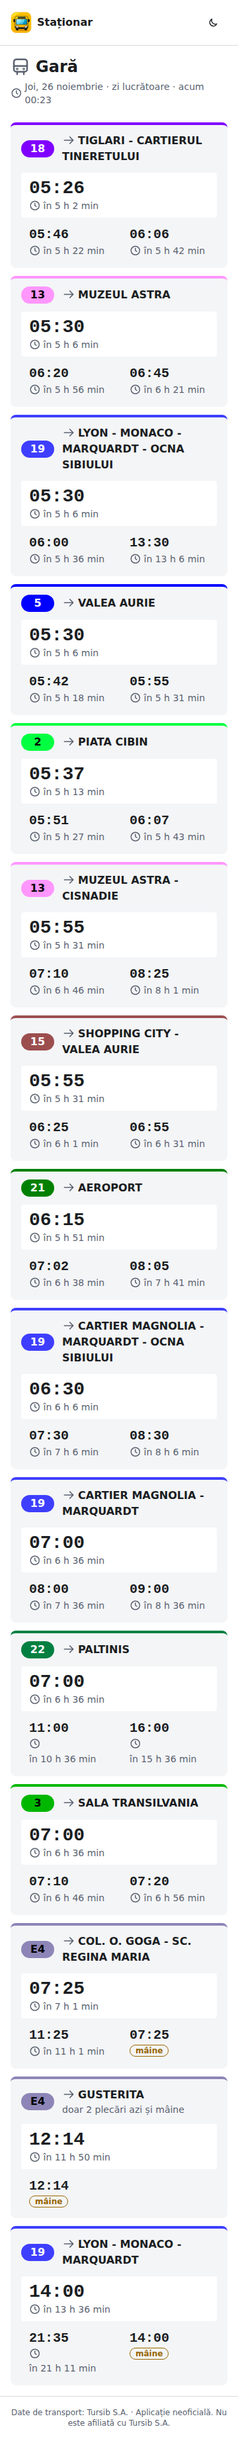
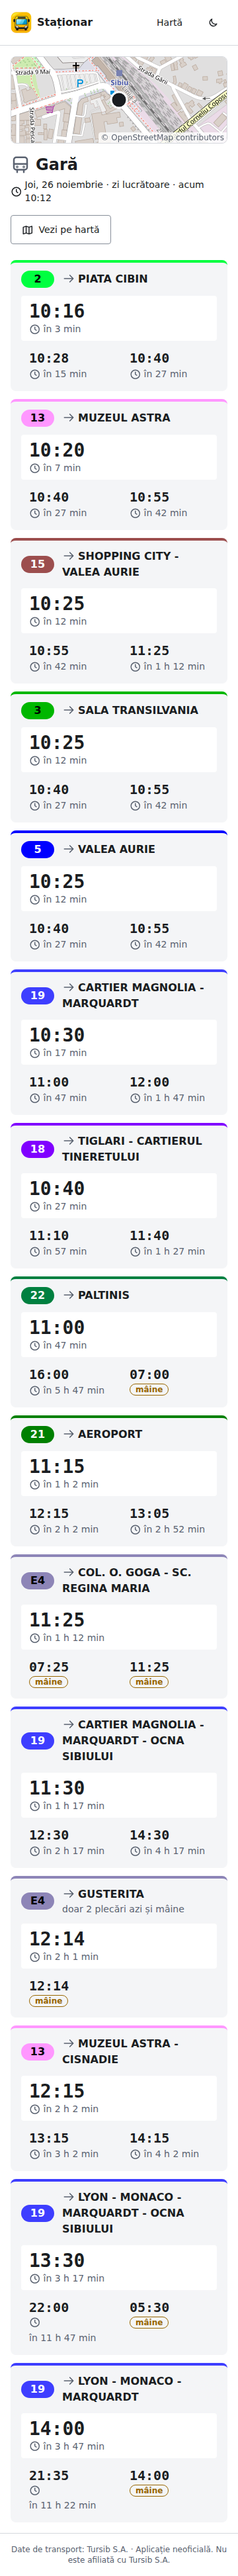
docs(harta): screenshots, registry, architecture, DATA.md grouping on the real feed, AI_LOG (point 9)
Hello screenshots removed with the hello page; PATTERN-003 (candidate) for Leaflet markers styled
with tokens through className.

Changed region(s): [[0.0306, 0.0, 0.9778, 0.9981], [0.7944, 0.0936, 0.8556, 0.1248]]

diff --git a/docs/agents/ARCHITECTURE.md b/docs/agents/ARCHITECTURE.md
@@ -6,7 +6,7 @@
 <!-- graffino-agentic:end -->
 
 > Rescris din cod după primul build (scheletul proiectului, 2026-11-19); importul GTFS și pagina de
-> stație adăugate 2026-11-25. Harta și autentificarea nu există încă; secțiunile marcate „plan”
+> stație adăugate 2026-11-25; harta 2026-11-26. Autentificarea nu există încă; secțiunile marcate „plan”
 > descriu deciziile aprobate.
 
 ## Overview
@@ -26,10 +26,11 @@ pe Render, din `Dockerfile`, și baza pe Neon (D-037).
 ## Parts
 | Part | Path | Responsibility | Talks to |
 |---|---|---|---|
-| app | `src/main/java/ro/autobuze/` | pornirea (`AutobuzeApplication`); `ClockConfig`: ceasul pe Europe/Bucharest (D-047); `web/HelloController`: pagina „hello” de la „/” (temporară, D-022) | db |
+| app | `src/main/java/ro/autobuze/` | pornirea (`AutobuzeApplication`); `ClockConfig`: ceasul pe Europe/Bucharest (D-047) | db |
 | import | `src/main/java/ro/autobuze/gtfs/` | `GtfsImportService`: descărcare + SHA-256, versiune nouă într-o tranzacție, câte un COPY pe fișier, activare, păstrarea a 2 versiuni (D-003, D-019, D-038); `GtfsTable`: fișierele GTFS → coloanele din DB, citite cu Commons CSV (D-046); `GtfsValues`: orele în secunde (D-043) | db, feed-ul Tursib |
-| orar | `src/main/java/ro/autobuze/schedule/` | `ServiceCalendar`: versiunea activă, serviciile active la o dată (calendar ∪ adăugate − scoase), tipul de zi (D-014, D-015); `Departures`: plecările dintr-o listă de stații într-un interval, din toate zilele de serviciu care îl ating (ore ≥ 24:00, D-043, D-047); `Stations`: stația unui `stop_id` (D-031); `NextDepartures`: următoarele plecări (D-018, D-048, D-051) în `StationBoard`; `LineColors`: culorile etichetei cu regula de contrast | db |
+| orar | `src/main/java/ro/autobuze/schedule/` | `ServiceCalendar`: versiunea activă, serviciile active la o dată (calendar ∪ adăugate − scoase), tipul de zi (D-014, D-015); `Departures`: plecările dintr-o listă de stații într-un interval, din toate zilele de serviciu care îl ating (ore ≥ 24:00, D-043, D-047); `Stations`: stația unui `stop_id` (D-031); `NextDepartures`: următoarele plecări (D-018, D-048, D-051) în `StationBoard`; `LineColors`: culorile etichetei cu regula de contrast; `StationDirectory`: toate stațiile (D-031) și cele mai apropiate 3 la ≤ 1 km (D-034), cu PostGIS | db |
 | pagina de stație | `src/main/java/ro/autobuze/web/StationController.java`, `templates/statie.html` | `GET /statie/{stopId}` randat pe server și `GET /api/statii/{stopId}/plecari` în JSON (C-002, D-050); 404 la o stație necunoscută | orar |
+| harta | `src/main/java/ro/autobuze/web/MapController.java`, `templates/harta.html`, `static/js/harta.js` | `GET /` și `/harta` (D-022, D-030); `GET /api/statii` și `/api/statii/aproape` (C-003); pagina desenează stațiile în browser, cu Leaflet din `static/vendor/leaflet` (D-053), și caută după nume acolo (D-054); harta mică de pe pagina de stație: `static/js/harta-mini.js` | orar, tile-uri OSM |
 | endpoint import | `src/main/java/ro/autobuze/web/ImportController.java` | `POST`/`GET /admin/import` cu token (C-001); importul pe `applicationTaskExecutor` | import |
 | workflow import | `.github/workflows/import.yml` | cron zilnic 01:30 UTC + manual: pornește importul pe live și întreabă starea la fiecare minut | endpoint import |
 | pagini | `src/main/resources/templates/` | Thymeleaf; fragmentele comune `fragments/head`, `antet` (DS-autobuze-antet), `subsol` (DS-autobuze-subsol, D-008) | — |
@@ -39,7 +40,10 @@ pe Render, din `Dockerfile`, și baza pe Neon (D-037).
 | teste | `src/test/java/ro/autobuze/` | `*Test` unitare, `*IT` cu Testcontainers (PostGIS 17); `ui/*UiTest` cu Playwright pe Compose (D-029), compilate și rulate doar cu profilul Maven `ui` | db, app |
 
 ## Data flow
-Acum: browser → `GET /` → `HelloController` → `hello.html` (antet, text, subsol).
+Harta (construită): browser → `GET /` sau `/harta` → `harta.html` → `harta.js` cere `GET /api/statii`
+(`StationDirectory.all`: o interogare, rândurile cu vecinii lor de același nume la ≤ 150 m) și desenează
+markerele pe tile-urile OSM; căutarea filtrează lista în browser. „Aproape de mine”: locația din browser
+→ `GET /api/statii/aproape` → `ST_DWithin` 1 km, ordonat după `ST_Distance` → primele 3 stații.
 
 Pagina de stație (construită): browser → `GET /statie/{stopId}` (sau `/api/statii/{stopId}/plecari`) →
 `StationController` cu ora din `Clock` → `NextDepartures.at`: eticheta zilei, versiunea activă,
@@ -51,7 +55,7 @@ liniilor, gruparea pe linie + capăt cu primele 3 → `statie.html` sau JSON. 13
 Plan, din deciziile aprobate:
 1. **Import (construit):** `import.yml` → `POST /admin/import` (token) → `GtfsImportService` pe un fir separat: descarcă arhiva într-un fișier temporar, calculează SHA-256; același checksum ca versiunea activă → `UNCHANGED`, fără versiune nouă. Altfel, într-o tranzacție: rând nou în `feed_versions`, fișierele în ordinea cheilor străine (agency → stops → routes → calendar → calendar_dates → shapes → trips → stop_times), fiecare printr-un singur `COPY ... FROM STDIN`, activarea, ștergerea versiunilor mai vechi decât cea anterioară, `ANALYZE`. Orice eroare → rollback, starea `FAILED`, versiunea activă rămâne. Starea e în memorie; workflow-ul o întreabă la fiecare minut. Raportul de diferențe (D-003): încă nu.
 2. **Orar (construit):** `Departures.between(fv, stopIds, from, until)` → pentru fiecare zi de serviciu de la ziua dinaintea lui `from` până la ziua lui `until`: `ServiceCalendar.activeServices` și plecările cu `departure_sec` în fereastră (indexul `stop_times_stop_departure`); ora reală = miezul nopții zilei de serviciu + secunde (D-047).
-3. **Harta, trasee, planificator, rapoarte:** D-005, D-030, D-034, D-002, D-012, D-013, D-033, D-009, D-028, D-035, D-036.
+3. **Trasee, planificator, rapoarte:** D-002, D-012, D-013, D-033, D-009, D-028, D-035, D-036.
 
 ## State and storage
 | What | Where | Owner | Notes |

diff --git a/AI_LOG.md b/AI_LOG.md
@@ -3,6 +3,36 @@
 > Jurnalul folosirii AI în proiect: pentru fiecare sesiune, ce am cerut, ce am primit
 > și ce am făcut cu răspunsul. Cele mai noi intrări sunt primele.
 
+## 2026-11-26 · Harta Leaflet, căutarea și „aproape de mine” (punctul 9), D-053, D-054, C-003
+**Unealta:** Claude Code (model Claude Opus 5.5), pe branch-ul `feat/harta`.
+
+**Ce am cerut**
+- Timpii EXPLAIN ANALYZE de pe Neon trecuți în DATA.md; corectura sursei pragului de 300 ms (fișa P07,
+  „Cerințe tehnice specifice”, nu D-018) în DATA.md, TODO.md și `docs/perf/next-departures.sql`; merge și push.
+- `/plan` pentru punctul 9: harta Leaflet cu stațiile din API, căutare după nume fără diacritice,
+  „aproape de mine” cu PostGIS și harta mică pe pagina de stație. Apoi `/build`.
+
+**Ce am primit**
+- Suma pe Neon: 147,4 ms (o rulare), sub prag; punctul 8 bifat.
+- Patru întrebări înainte de plan: cum servim Leaflet, unde se caută, câte rezultate, coordonatele în C-002.
+- Planul: `StationDirectory` peste regula D-031, `MapController` cu C-003, `harta.js` și `harta-mini.js`,
+  pagina „hello” înlocuită de hartă.
+- Build-ul: testele noi picate întâi pe stub-uri (404, `UnsupportedOperationException`, `lat` 0, `noindex`),
+  apoi `./mvnw verify` cu 95 de teste trecute și 19 teste de UI trecute; screenshot-urile pe feed-ul real.
+- Observație din feed-ul real: gruparea D-031 nu unește nimic, toate cele 512 rânduri au nume diferite,
+  deci harta are 512 stații (estimarea din plan era ~250).
+
+**Ce am făcut cu răspunsul**
+- Am ales: Leaflet copiat în `static/vendor/leaflet` (→ D-053), căutarea în browser cu toate rezultatele
+  (→ D-054), `station.lat/lon` în C-002; am aprobat C-003 și presupunerile (distanța la 10 m, încadrarea
+  hărții, mesajul fără feed).
+- **Am aprobat schimbarea aserțiunilor din `HelloPageIT`:** pagina „hello” a dispărut, deci textul ei și
+  `<h1>Staționar — când vine autobuzul?</h1>` nu mai au ce verifica; `noindex` era temporar și testul spunea
+  chiar că se scoate odată cu harta (D-022), deci devine „fără `noindex`”. Aserțiunile despre antet, subsol,
+  logo și favicon s-au mutat neschimbate în `MapControllerIT`.
+- Gruparea netranzitivă: am verificat-o eu pe feed-ul real la punctul 8 (nicio stație cu același nume la
+  150–400 m), deci fără Q-026; rezultatul e acum în DATA.md.
+
 ## 2026-11-26 · Logo și favicon
 **Unealta:** Claude Code (model Claude Opus 5.5), pe branch-ul `feat/logo`.
 

diff --git a/docs/agents/PATTERNS.md b/docs/agents/PATTERNS.md
@@ -8,6 +8,7 @@
 ## Index
 - PATTERN-001 · Testele de UI rulează în imaginea oficială Playwright când browser-ul nu se poate descărca · candidate
 - PATTERN-002 · `./mvnw` rulează în imaginea `eclipse-temurin:21-jdk` când gazda nu are JDK · candidate
+- PATTERN-003 · Markerele Leaflet primesc culorile din tokeni prin `className` și CSS, nu prin opțiuni JS · candidate
 
 ---
 
@@ -27,3 +28,10 @@
 - **Why:** În WSL nu e instalat niciun JDK (JAVA_HOME nedefinit), iar `./mvnw` are nevoie de unul.
 - **Evidence:** build-ul schemei DB, 2026-11-24: `./mvnw verify` cu 11 teste trecute așa
 
+## PATTERN-003 · Markerele Leaflet primesc culorile din tokeni prin `className` și CSS, nu prin opțiuni JS
+- **Status:** candidate
+- **Date:** 2026-11-26
+- **How:** Un `L.circleMarker` primește doar `radius` și `className`; culoarea, bordura și opacitatea vin din `app.css` (`fill`, `stroke`, `fill-opacity`, `stroke-opacity`, `stroke-width` cu `var(--color-...)`), care bat atributele SVG puse de Leaflet. Tema dark schimbă markerele fără JS. Ținta de atingere de 44 px e un al doilea `circleMarker`, transparent (`fill-opacity: 0`, dar nu `fill: none`, ca să primească clicul).
+- **Example:** `src/main/resources/static/js/harta.js` (`marker-statie`, `marker-tinta`, `marker-eu`) și `static/css/app.css`
+- **Why:** DESIGN.md cere doar tokeni în codul componentelor; opțiunile `color`/`fillColor` din JS ar fi culori scrise de mână și n-ar urma tema.
+- **Evidence:** punctul 9, 2026-11-26; screenshot-urile `DS-autobuze-harta` light și dark

diff --git a/DATA.md b/DATA.md
@@ -44,6 +44,17 @@ Verificat local cu SQL: 93.218 rânduri în `stop_times`, 84.954 în `shapes`, t
 (`geog`), 48 de plecări la ≥ 24:00 (cea mai târzie 24:21:10). Rândurile de pe Neon nu sunt verificate
 separat cu SQL; numărul vine din starea importului de pe live, egal cu cel local.
 
+## Stațiile pe hartă (D-031, C-003)
+Pe feed-ul real (versiunea 1, v4.9), gruparea D-031 (același nume la cel mult 150 m) nu unește niciun
+rând: toate cele 512 rânduri din `stops.txt` au nume diferite (cele două sensuri au de obicei nume
+separate, de ex. „Aeroport 1” și „Aeroport 2”), deci `GET /api/statii` dă 512 stații, fiecare cu un
+singur `stop_id`. Verificat pe baza locală, 26.11.2026.
+
+Nu există nicio pereche de rânduri cu același nume la 150–400 m (verificat de autor pe feed-ul real,
+25.11.2026, la punctul 8). Deci, dacă două rânduri sunt la cel mult 150 m de un al treilea, sunt la
+cel mult 150 m și între ele: gruparea e tranzitivă, iar harta (`StationDirectory`) și pagina de
+stație (`Stations`) dau aceleași grupuri.
+
 ## Performanță: următoarele plecări
 Cerința (fișa P07, „Cerințe tehnice specifice”): „următoarele plecări” sub 300 ms pe feed-ul real, **pe interogare**.
 Măsurat pe Gară (`stop_id` 1051), stația cu cele mai multe plecări (1.730 de rânduri în `stop_times`),

diff --git a/TODO.md b/TODO.md
@@ -69,6 +69,12 @@
   - [x] Q-025: sub un minut, pagina afișează „acum” (D-052; testul în `NextDeparturesTest`)
 - [ ] **9. Harta Leaflet** cu date din API, căutare după nume, „aproape de mine” (D-005, D-022, D-030, D-031, D-034);
       înlocuiește pagina „hello” de la „/” (se scoate `noindex`); Q-022 (cum spun paginile că nu e oficială Tursib)
+  - [x] `StationDirectory`, `MapController`: `/` și `/harta`, `GET /api/statii` și `/api/statii/aproape` (C-003,
+        D-053, D-054); `station.lat/lon` în C-002; harta mică și „Vezi pe hartă” pe pagina de stație;
+        „Hartă” în antet; pagina „hello” scoasă
+  - [x] Teste: `StationDirectoryIT` (5), `MapControllerIT` (10, înlocuiește `HelloPageIT`), `StationControllerIT` (+1),
+        `HartaUiTest` (8); screenshot-uri `DS-autobuze-harta` și `DS-autobuze-statie` (feed-ul real, local)
+  - [ ] Deploy (cu acordul autorului) și „aproape de mine” verificat pe telefon, pe live (HTTPS)
 - [ ] **10. Auth USER + ADMIN**, rute protejate pe server; favorite + pagina „Acasă” (D-011, D-020, D-022, D-032)
 - [ ] **11. Pagina de linie**: traseul pe hartă, stațiile în ordine, orarul pe tipuri de zi (D-014, D-016, D-035; Q-010)
 

diff --git a/docs/agents/CONTRACTS.md b/docs/agents/CONTRACTS.md
@@ -65,4 +65,4 @@ Niciunul.
 - **Interface:** tile-urile OpenStreetMap (D-005)
 - **We rely on:** tile-uri raster pentru zona orașului
 - **Known quirks:** politica de utilizare a tile-urilor OSM: atribuirea „© OpenStreetMap contributors” obligatorie, fără trafic intens
-- **Evidence:** nu există cod încă
+- **Evidence:** `static/js/harta.js` și `static/js/harta-mini.js` (punctul 9, 2026-11-26); atribuirea verificată de `HartaUiTest`
